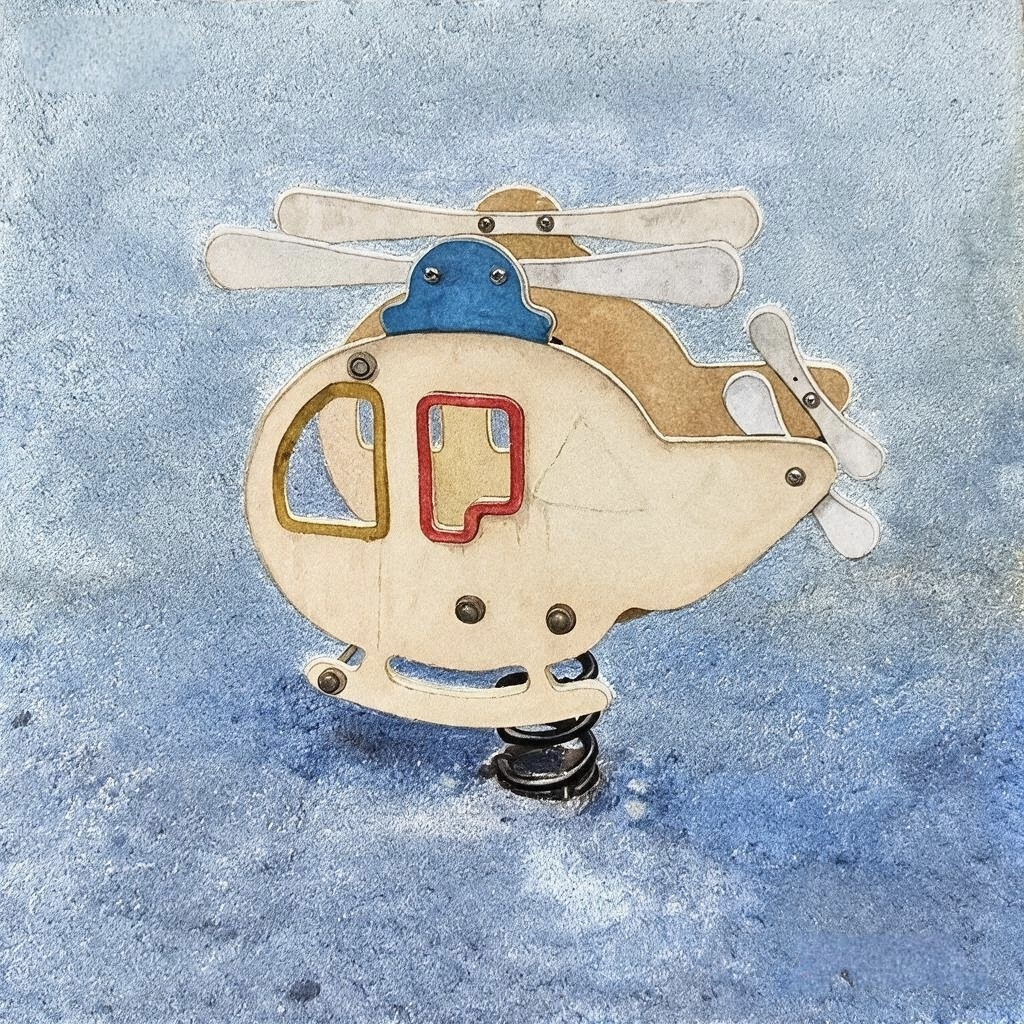
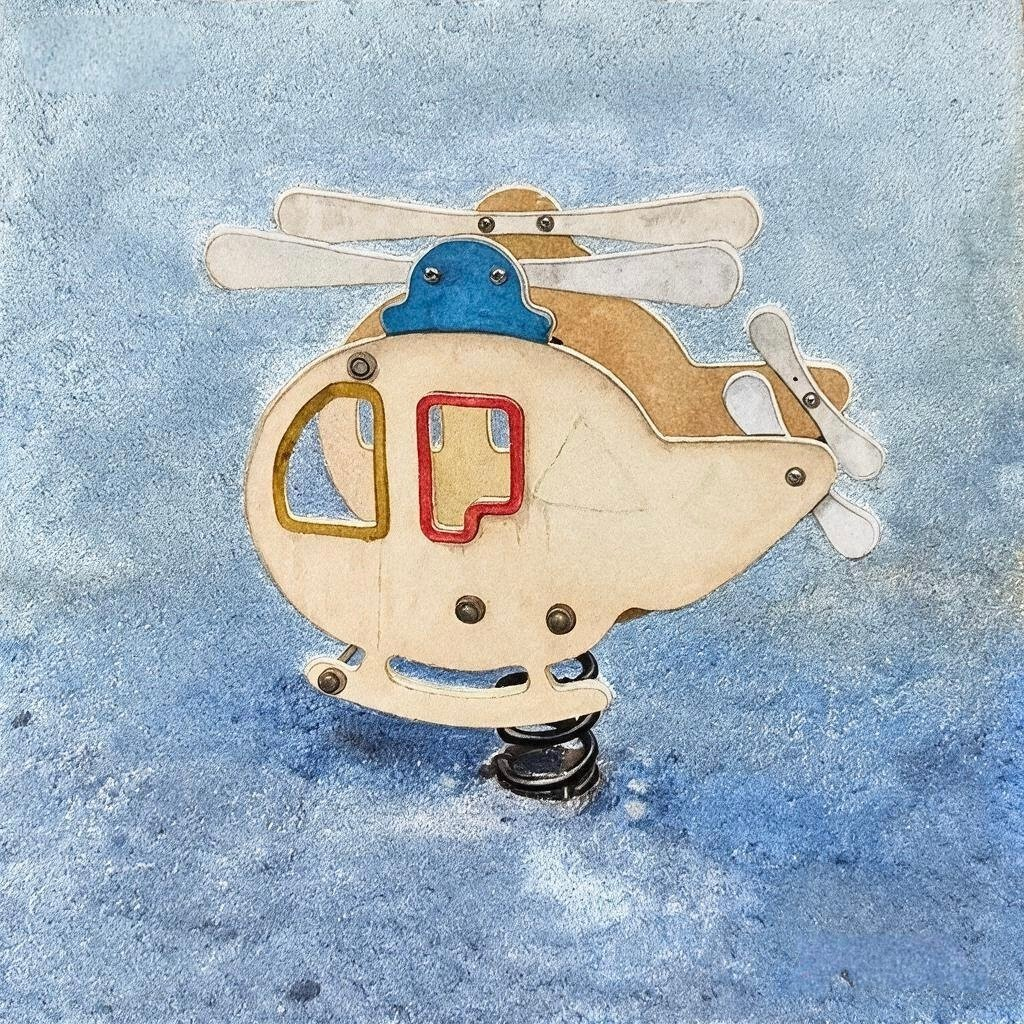
feat: 5张绘画作品上线 + 压缩优化
新增作品（painting 01-05）：
- 红色象的夜间独白（水性综合材料，2026）
- 蓝色机体的无航线研究（综合材料，2026）
- 旋翼停机后的安静区（综合材料，2026）
- 旋转结构中的光学残留（色粉，2026）
- 静水上的多色体排列（水彩，2026）

图片优化：
- 统一压缩到长边1600px，JPEG质量85
- 5张图总大小从31.7MB降至2.4MB（-92%）
- 原图备份到 raw-images/（.gitignore）

删除已废弃的Featured精选占位数据

Changed region(s): [[0.375, 0.2188, 0.5312, 0.3438]]

diff --git a/src/content/content.config.ts b/src/content/content.config.ts
@@ -61,76 +61,53 @@ export const siteContent: SiteContent = {
   },
 
   // ─────────────── 作品 ───────────────
-  // featured: true 的作品会置顶展示在 Hero 下方的精选区
-  // 其余作品按类别筛选展示在下方网格中
+  // 图片放入 public/works/ 后，按顺序添加到下方数组即可
+  // category: painting / installation / photography
   works: [
-    // ===== 精选（置顶） =====
-    {
-      id: "featured-01",
-      src: "/works/featured-01.jpg",
-      title: "无题（蓝）",
-      medium: "布面油画",
-      year: 2024,
-      note: "整张画只剩一种颜色时，它就开始呼吸了。",
-      category: "painting",
-      featured: true,
-    },
-    {
-      id: "featured-02",
-      src: "/works/featured-02.jpg",
-      title: "悬浮之物 No.3",
-      medium: "综合材料装置",
-      year: 2024,
-      note: "把重量感从物体中抽离，让它停在半空。",
-      category: "installation",
-      featured: true,
-    },
-    {
-      id: "featured-03",
-      src: "/works/featured-03.jpg",
-      title: "凌晨四点的窗",
-      medium: "胶片摄影 35mm · Portra 400",
-      year: 2023,
-      note: "城市还没醒，光已经先到了。",
-      category: "photography",
-      featured: true,
-    },
-
     // ===== 绘画 =====
     {
       id: "painting-01",
       src: "/works/painting-01.jpg",
-      title: "夏日午后的回声",
-      medium: "布面油画",
-      year: 2024,
-      note: "光像融化的黄油，落在碎花窗帘上。",
+      title: "红色象的夜间独白",
+      medium: "水性综合材料",
+      year: 2026,
+      note: "在不该承载重量的玩具上，你暂时停止了与世界的交互。",
       category: "painting",
     },
     {
       id: "painting-02",
       src: "/works/painting-02.jpg",
-      title: "没人记得的房间",
-      medium: "木板油画",
-      year: 2024,
-      note: "祖母家的客厅，但所有家具都飘了起来。",
+      title: "蓝色机体的无航线研究",
+      medium: "综合材料",
+      year: 2026,
+      note: "这架机体被设计为摇动，却被我用于静止。飞行的概念被取消，只剩下关于\"起飞前\"的无限延长。",
       category: "painting",
     },
     {
       id: "painting-03",
       src: "/works/painting-03.jpg",
-      title: "镜子里的那个人",
-      medium: "纸本水彩 + 彩铅",
-      year: 2023,
-      note: "画完才发现镜子里不是我。",
+      title: "旋翼停机后的安静区",
+      medium: "综合材料",
+      year: 2026,
+      note: "旋翼的沉默是一种结构性的暂停。我在这暂停里观察自己的内部回声，它们与木质机体的空洞互相抵消。",
       category: "painting",
     },
     {
       id: "painting-04",
       src: "/works/painting-04.jpg",
-      title: "雨季的卧室",
-      medium: "布面油画",
-      year: 2023,
-      note: "连续下了二十一天的雨。",
+      title: "旋转结构中的光学残留",
+      medium: "色粉",
+      year: 2026,
+      note: "在循环的光影里，情绪被迫重复成同一个瞬间。",
+      category: "painting",
+    },
+    {
+      id: "painting-05",
+      src: "/works/painting-05.jpg",
+      title: "静水上的多色体排列",
+      medium: "水彩",
+      year: 2026,
+      note: "停泊的色块在水面上排列成一组被延迟的前进。",
       category: "painting",
     },
 